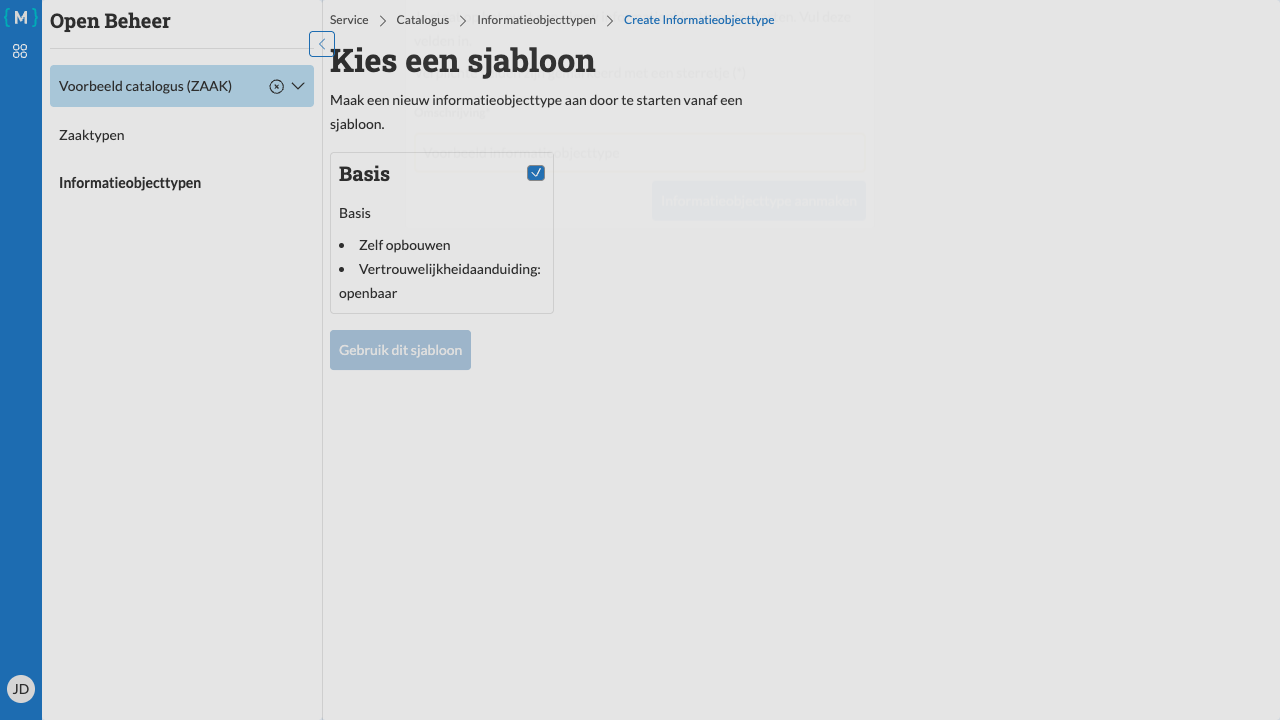
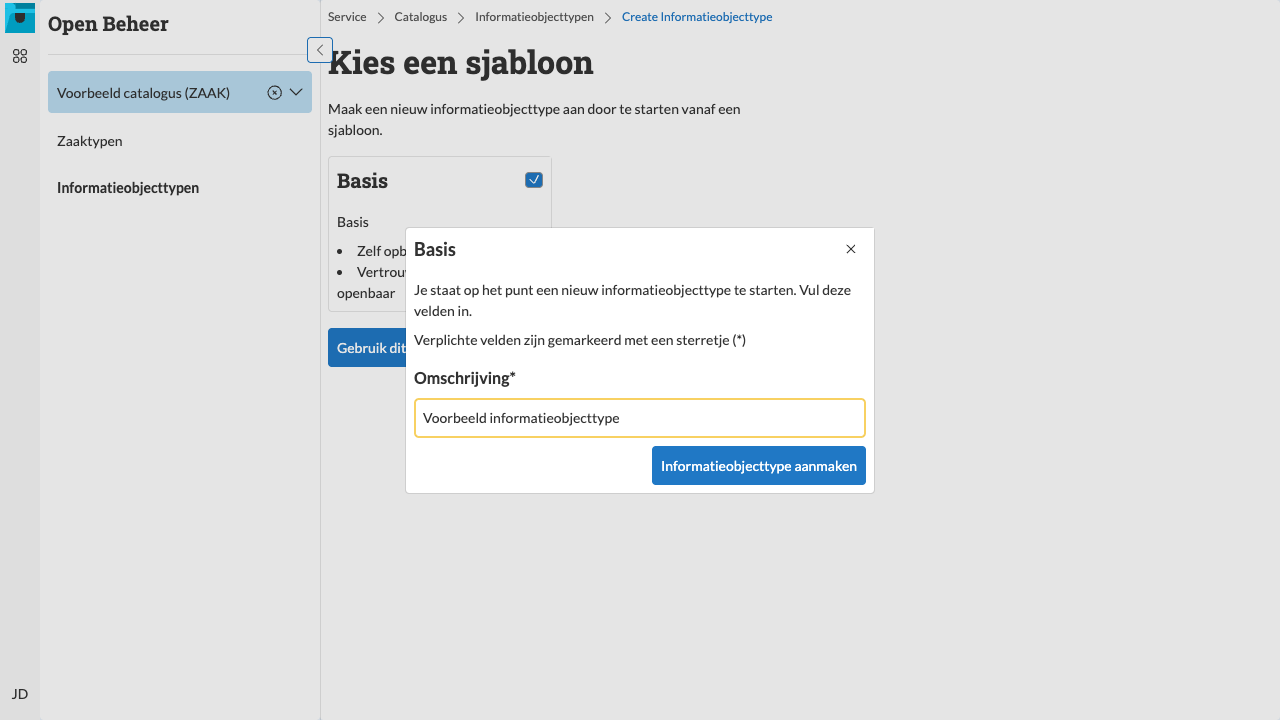
:sparkles: [#387] feat: show new styling in manual

diff --git a/backend/src/openbeheer/tests/e2e/test_25_edit_related.py b/backend/src/openbeheer/tests/e2e/test_25_edit_related.py
@@ -59,6 +59,7 @@ def test_scenario_edit_related_statustypen(page: Page, runner: GherkinRunner):
     _.when.user_clicks_on_button(page, "Bewerken")
 
     _.when.user_fills_form_field(page, "Omschrijving", "Bijgewerkt", index=3)
+    page.wait_for_timeout(300)
     page.screenshot(
         path="../docs/manual/_assets/test_scenario_edit_related_statustypen.png"
     )
@@ -135,6 +136,7 @@ def test_scenario_edit_related_zaaktypeinformatieobjecttypen(
     _.then.page_should_contain_text(page, "Opslaan")
 
     _.when.user_fills_form_field(page, "Richting", "Uitgaand")
+    page.wait_for_timeout(300)
     page.screenshot(
         path="../docs/manual/_assets/test_scenario_edit_related_zaaktypeinformatieobjecttypen.png"
     )
@@ -220,6 +222,7 @@ def test_scenario_edit_related_roltypen(page: Page, runner: GherkinRunner):
     _.then.page_should_contain_text(page, "Opslaan")
 
     _.when.user_fills_form_field(page, 'Bewerk "omschrijving"', "Uitvoerder", index=2)
+    page.wait_for_timeout(300)
     page.screenshot(
         path="../docs/manual/_assets/test_scenario_edit_related_roltypen.png"
     )
@@ -308,6 +311,7 @@ def test_scenario_edit_related_resultaattypen(page: Page, runner: GherkinRunner)
     _.when.user_fills_form_field(
         page, "Omschrijving", "Handleiding begrepen", skip_combo=True
     )
+    page.wait_for_timeout(300)
     page.screenshot(
         path="../docs/manual/_assets/test_scenario_edit_related_resultaattypen.png"
     )
@@ -390,6 +394,7 @@ def test_scenario_edit_related_eigenschappen(page: Page, runner: GherkinRunner):
     _.then.page_should_contain_text(page, "Opslaan")
 
     _.when.user_fills_form_field(page, "Definitie", "Bijgewerkt", index=1)
+    page.wait_for_timeout(300)
     page.screenshot(
         path="../docs/manual/_assets/test_scenario_edit_related_eigenschappen.png"
     )

diff --git a/backend/src/openbeheer/tests/e2e/test_11_login.py b/backend/src/openbeheer/tests/e2e/test_11_login.py
@@ -32,6 +32,7 @@ def test_scenario_log_in(page: Page, runner: GherkinRunner):
     _.when.user_opens_application(page)
     _.when.user_fills_form_field(page, "Gebruikersnaam", user.username)
     _.when.user_fills_form_field(page, "Wachtwoord", "secret")
+    page.wait_for_timeout(300)
     page.screenshot(path="../docs/manual/_assets/test_scenario_log_in.png")
 
     _.when.user_clicks_on_button(page, "Inloggen")
@@ -66,6 +67,7 @@ def test_scenario_log_out(page: Page, runner: GherkinRunner):
 
     _.when.user_clicks_on_button(page, "Profiel")  # Shown as initials
     _.then.page_should_contain_text(page, "Account")
+    page.wait_for_timeout(300)
     page.screenshot(path="../docs/manual/_assets/test_scenario_log_out.png")
 
     _.when.user_clicks_on_button(page, "Uitloggen")

diff --git a/backend/src/openbeheer/tests/e2e/test_32_create_informatieobjecttype.py b/backend/src/openbeheer/tests/e2e/test_32_create_informatieobjecttype.py
@@ -42,6 +42,7 @@ def test_scenario_create_informatieobjecttype(page: Page, runner: GherkinRunner)
     _.when.user_clicks_on_checkbox(page, "Basis")
     _.when.user_clicks_on_button(page, "Gebruik dit sjabloon")
     _.when.user_fills_form_field(page, "Omschrijving", "Voorbeeld informatieobjecttype")
+    page.wait_for_timeout(300)
     page.screenshot(
         path="../docs/manual/_assets/test_scenario_create_informatieobjecttype.png"
     )

diff --git a/backend/src/openbeheer/tests/e2e/test_22_create_zaaktype.py b/backend/src/openbeheer/tests/e2e/test_22_create_zaaktype.py
@@ -37,6 +37,7 @@ def test_scenario_create_zaaktype(page: Page, runner: GherkinRunner):
     _.when.user_selects_catalogus(page, catalogus)
     _.when.user_navigates_to_zaaktype_list_page(page)
     _.when.user_clicks_on_link(page, "Nieuw zaaktype")
+    page.wait_for_timeout(300)
     page.screenshot(path="../docs/manual/_assets/test_scenario_create_zaaktype.png")
 
     # Create zaaktype

diff --git a/backend/src/openbeheer/tests/e2e/test_24_edit_zaaktype.py b/backend/src/openbeheer/tests/e2e/test_24_edit_zaaktype.py
@@ -47,6 +47,8 @@ def test_scenario_edit_zaaktype(page: Page, runner: GherkinRunner):
     )
     _.when.user_fills_form_field(page, "Selectielijst", "2020 - 1 - ")
 
+    page.wait_for_timeout(300)
+
     page.screenshot(path="../docs/manual/_assets/test_scenario_edit_zaaktype.png")
     _.when.user_clicks_on_button(page, "Opslaan")
     _.then.page_should_contain_text(page, "Bewerken")

diff --git a/backend/src/openbeheer/tests/e2e/test_31_navigate_informatieobjecttype_list.py b/backend/src/openbeheer/tests/e2e/test_31_navigate_informatieobjecttype_list.py
@@ -32,6 +32,7 @@ def test_scenario_navigate_informatieobjecttype_list(page: Page, runner: Gherkin
     _.when.user_logs_in(page)
     _.when.user_selects_catalogus(page, catalogus)
     _.when.user_clicks_on_button(page, "Informatieobjecttypen")
+    page.wait_for_timeout(300)
     page.screenshot(
         path="../docs/manual/_assets/test_navigate_informatieobjecttype_list.png"
     )

diff --git a/backend/src/openbeheer/tests/e2e/test_12_select_catalog.py b/backend/src/openbeheer/tests/e2e/test_12_select_catalog.py
@@ -31,6 +31,7 @@ def test_scenario_select_catalog(page: Page, runner: GherkinRunner):
 
     _.when.user_logs_in(page)
     _.when.user_clicks_on_combobox(page, "Selecteer catalogus")
+    page.wait_for_timeout(300)
     page.screenshot(path="../docs/manual/_assets/test_scenario_select_catalog.png")
 
     _.when.user_clicks_on_text(page, f"{catalogus.naam} ({catalogus.domein})")

diff --git a/backend/src/openbeheer/tests/e2e/test_26_publish_zaaktype.py b/backend/src/openbeheer/tests/e2e/test_26_publish_zaaktype.py
@@ -49,6 +49,7 @@ def test_scenario_publish_informatieobjecttype(page: Page, runner: GherkinRunner
     # Publish zaaktype
     _.when.user_clicks_on_button(page, "Bewerken")
     _.then.page_should_contain_text(page, "Opslaan")
+    page.wait_for_timeout(300)
     page.screenshot(
         path="../docs/manual/_assets/test_scenario_publish_informatieobjecttype.png"
     )

diff --git a/backend/src/openbeheer/tests/e2e/test_21_navigate_zaaktype_list.py b/backend/src/openbeheer/tests/e2e/test_21_navigate_zaaktype_list.py
@@ -33,6 +33,7 @@ def test_scenario_navigate_zaaktype_list(page: Page, runner: GherkinRunner):
     _.when.user_logs_in(page)
     _.when.user_selects_catalogus(page, catalogus)
     _.when.user_clicks_on_button(page, "Zaaktypen")
+    page.wait_for_timeout(300)
     page.screenshot(
         path="../docs/manual/_assets/test_scenario_navigate_zaaktype_list.png"
     )

diff --git a/backend/src/openbeheer/tests/e2e/test_33_edit_informatieobjecttype.py b/backend/src/openbeheer/tests/e2e/test_33_edit_informatieobjecttype.py
@@ -42,6 +42,7 @@ def test_scenario_edit_informatieobjecttype(page: Page, runner: GherkinRunner):
     _.then.page_should_contain_text(page, "Opslaan")
 
     _.when.user_fills_form_field(page, "Omschrijving", "Bijgewerkt")
+    page.wait_for_timeout(300)
     page.screenshot(
         path="../docs/manual/_assets/test_scenario_edit_informatieobjecttype.png"
     )

diff --git a/backend/src/openbeheer/tests/e2e/test_34_publish_informatieobjecttype.py b/backend/src/openbeheer/tests/e2e/test_34_publish_informatieobjecttype.py
@@ -40,6 +40,7 @@ def test_scenario_publish_informatieobjecttype(page: Page, runner: GherkinRunner
         page, catalogus, informatieobjecttype
     )
     _.then.page_should_contain_text(page, "ConceptJa")
+    page.wait_for_timeout(300)
     page.screenshot(
         path="../docs/manual/_assets/test_scenario_publish_informatieobjecttype.png"
     )

diff --git a/backend/src/openbeheer/tests/e2e/test_23_navigate_zaaktype.py b/backend/src/openbeheer/tests/e2e/test_23_navigate_zaaktype.py
@@ -37,4 +37,5 @@ def test_scenario_navigate_zaaktype(page: Page, runner: GherkinRunner):
     _.when.user_clicks_on_text(page, zaaktypen[0].identificatie)
 
     _.then.page_should_contain_text(page, "Overzicht")
+    page.wait_for_timeout(300)
     page.screenshot(path="../docs/manual/_assets/test_scenario_navigate_zaaktype.png")
